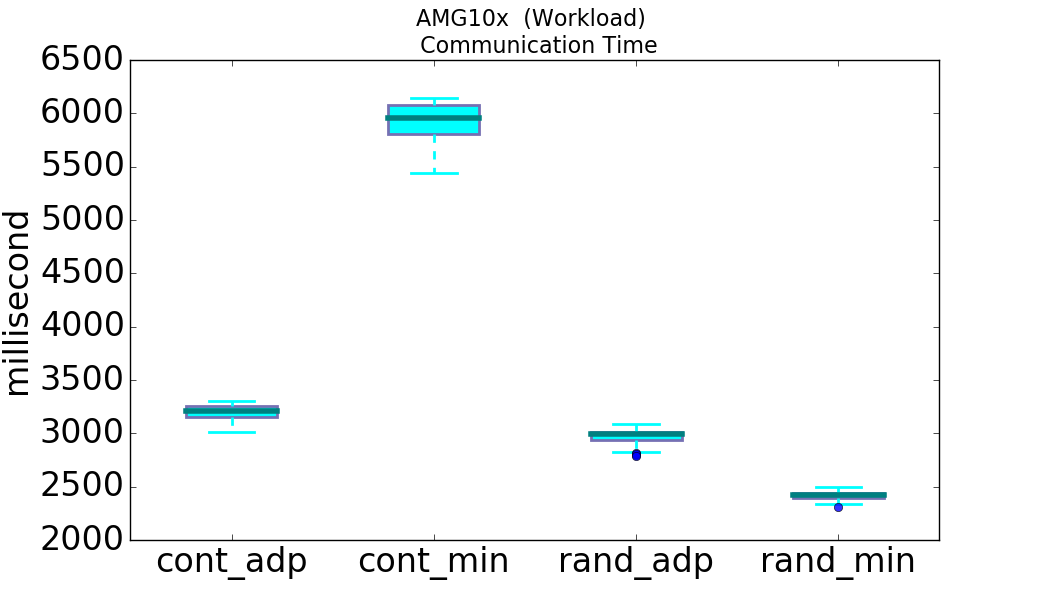
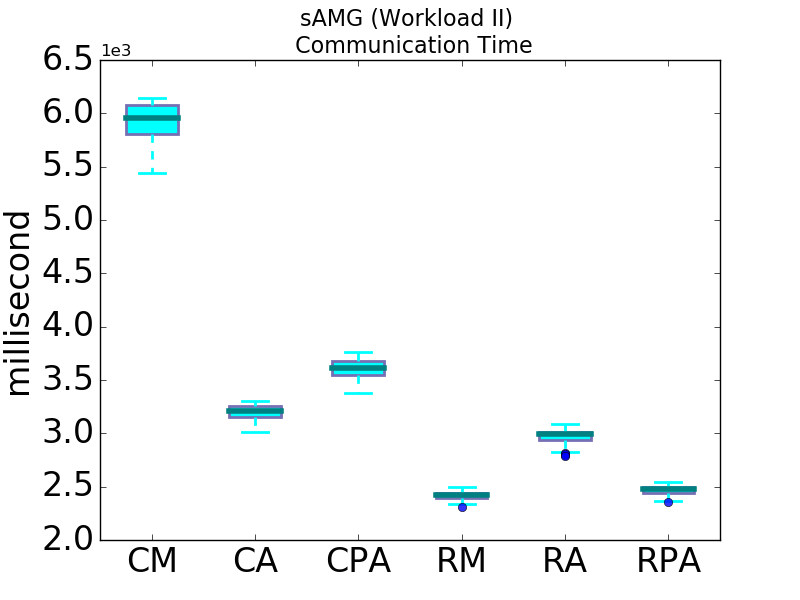
update figs in section 5, add conclusion section

diff --git a/draft.tex b/draft.tex
@@ -466,7 +466,7 @@ The implemented routing schemes in CODES dragonfly network model are based on th
 It is difficult to do experiment with concurrently running jobs on HPC system. One reason is that job placement and routing strategy are part of system configuration, it is impossible for user to make changes at will. Another reason is that it is unrealistic to reserve the system exclusively to run the same batch of jobs with desired placement and routing configurations and compare the results. Therefore, we resort to simulation in our work.
 
 \subsection{Simulation Tool}
-A simulation toolkit named CODES, Co-Design of Multilayer Exascale Storage Architectures, enables the exploration of simulating different HPC networks with high fidelity and great scalability\cite{codes}.  CODES support dragonfly network with high fidelity flit-level simulation\cite{codes-dragonfly}. It has this network workload component that is capable of taking real MPI application traces generated by SST DUMPI\cite{sst} for trace-driven simulations.
+A simulation toolkit named CODES, Co-Design of Multilayer Exascale Storage Architectures, enables the exploration of simulating different HPC networks with high fidelity and great scalability\cite{codes}.  CODES support dragonfly network with high fidelity packet-level simulation\cite{codes-dragonfly}. It has this network workload component that is capable of taking real MPI application traces generated by SST DUMPI\cite{sst} for trace-driven simulations.
 
 \subsection{Application Traces}
 \label{sec: application traces}
@@ -541,7 +541,17 @@ CrystalRouter  &   100  &  35MB    &     \\
 \end{center}
 \end{table}
 
-In our experiments, the workload running on the dragonfly network under 6 different job placement and routine scheme configurations as listed in Table \ref{tab: placement routing config}. We focus on the analysis of network status while the workload is running, as well as the performance of each individual application. We collected the following result data from the experiments:
+Figure \ref{fig:3app-data-amount} shows the data transfer amount of each MPI rank of three application. Based on this figure, we could say that CrystalRouter is the most communication-intensive and AMG is the lest communication-intensive. 
+
+\begin{figure}[h!]
+  \centering
+  \includegraphics[width = 0.48\textwidth ]{data_amount}
+  \caption{Applications Data Transfer Amount. AMG has the least amount of data transfer, compared with CR and MG.}
+  \label{fig:3app-data-amount}
+\end{figure}
+
+
+In our experiments, the workload running on the dragonfly network under 6 different job placement and routine scheme configurations as listed in Table \ref{tab: placement routing configs}. We focus on the analysis of network status while the workload is running, as well as the performance of each individual application. We collected the following result data from the experiments:
 \begin{itemize}
     \item router terminal link traffic and busy time.
     \item router local channel traffic and busy time.
@@ -550,7 +560,12 @@ In our experiments, the workload running on the dragonfly network under 6 differ
 \end{itemize}
 
 
-\TODO{need a figure show workload communication time!!!}
+\begin{figure}[h!]
+  \centering
+  \includegraphics[width = 0.48\textwidth ]{wkld/wkld-commtime}
+  \caption{Time spent on communication by Workload I when 6 different placement and routing scheme configurations are used. Random is better than contiguous in terms of improving communication efficiency.Communication time can be further reduced when (progressive) adaptive routing is used under both placement schemes. }
+  \label{fig:wkld-commtime}
+\end{figure}
 
 Figure \ref{fig:wkld-network-traffic} shows the amount of traffic go through terminal links, local channels and global channels when the workload running on dragonfly network with 6 different placement and routing configurations, and Figure \ref{fig:wkld-network-stime} shows the corresponding busy time. 
 
@@ -559,7 +574,7 @@ When the workload is running with contiguous placement and minimal routing, all 
 
 When contiguous placement is coupled with adaptive routing or progressive adaptive routing, the local congestion on global channel will be greatly alleviated, as shown in Figure \ref{fig:global-channel-traffic} the red and green dash line. Since both adaptive and progressive adaptive routing are congestion aware, and be able to utilize the idle routers on the other part of the network. The busy time of global channel are also reduce by using contiguous placement coupled with either adaptive or progressive adaptive routing, as shown in Figure \ref{fig:global-channel-stime} the red and green dash line. 
 
-Random placement can randomly allocate the MPI ranks to the physical nodes all over the network, thus prevent the traffic from congesting certain part of the network. Shown as the solid lines in Figure \ref{fig:global-channel-traffic}, the traffic go through global channels are quite uniformly distributed across all the routers in the network, thus no particular global channel will suffer high traffic burden. When the random placement coupled with minimal routing, the packets can avoid unnecessary intermediate forwarding as introduced by adaptive and progressive routing, which results in generating less traffic. That's why the blue solid line is lower than the red and green solid line, shown in figure\ref{fig:global-channel-traffic}. Since the random placement can uniformly distribute the workload traffic, there are no sudden surge of busy time of global channel over the network, shown as solid lines in Fgiure \ref{fig:global-channel-stime}.
+Random placement can randomly allocate the MPI ranks to the physical nodes all over the network, thus prevent the traffic from being congested certain part of the network. Shown as the solid lines in Figure \ref{fig:global-channel-traffic}, the traffic go through global channels are quite uniformly distributed across all the routers in the network, thus no particular global channel will suffer high traffic burden. When the random placement coupled with minimal routing, the packets can avoid unnecessary intermediate forwarding as introduced by adaptive and progressive routing, which results in generating less traffic. That's why the blue solid line is lower than the red and green solid line, shown in figure\ref{fig:global-channel-traffic}. Since the random placement can uniformly distribute the workload traffic, there are no sudden surge of busy time of global channel over the network, shown as solid lines in Fgiure \ref{fig:global-channel-stime}.
 
 %local channel traffic and busy time explanation
 
@@ -663,12 +678,15 @@ Figure \ref{fig:apps-commtime} shows the communication time of three application
 
 As shown in Figure \ref{fig:mg-commtime} \ref{fig:cr-commtime}, MG and CR suffer the longest communication time when running under the configuration of contiguous placement and minimal routing(CM). When contiguous placement coupled with adaptive or progressive adaptive routing, both MultiGrid and CrystalRouter will get great improvement in terms of communication efficiency. Random placement will further reduce the communication time of MultiGrid and CrystalRouter, and reach the best performance when coupled with (progressive) adaptive routing. Both MultiGrid and CrystalRouter shows the same trend as the workload when running under different placement and routing configurations. 
 
-However, AMG's performance is quite an exception. As shown in Figure \ref{fig:amg-commtime}, the communication time of AMG is skyrocketing when it running under random placement coupled with (progressive) adaptive routing. The contiguous placement coupled with (progressive) adaptive routing can reach the best performance for AMG. The performance of AMG running under contiguous placement coupled with minimal routing is no better than random coupled with minimal routing, but still much better than random with (progressive) adaptive routing. 
+However, AMG is quite an exception. As shown in Figure \ref{fig:amg-commtime}, the communication time of AMG is skyrocketing when it running under random placement coupled with (progressive) adaptive routing. The contiguous placement coupled with (progressive) adaptive routing can reach the best performance for AMG. The performance of AMG running under contiguous placement coupled with minimal routing is no better than random coupled with minimal routing, but still much better than random with (progressive) adaptive routing. 
 
 % Show the evidence from network level, explain why AMG is different. 
-We look into network level to identify the major culprit behind AMG's abnormal behavior with random placement and adaptive routing. By identifying the terminal nodes and routers that each application's traffic go through, we can see that the traffic amount go through the routers that belongs to AMG is skyrocketing when it running with random placement and adaptive routing, shown in Figure \ref{fig:amg-lc-traffic} and Figure \ref{fig:amg-gc-traffic}. Adaptive routing will redirect the traffic of other applications to go through the routers belongs to AMG, and increase the burden of those routers, thus slow down the communication of AMG. \textbf{More explanation about contiguous placement and minimal routing}
+We look into network level to identify the major culprit behind AMG's abnormal behavior with random placement and adaptive routing. By identifying the terminal nodes and routers that each application's traffic go through, we can see that the traffic amount go through the routers that belongs to AMG is skyrocketing when it running with random placement and adaptive routing, shown in Figure \ref{fig:amg-lc-traffic} and Figure \ref{fig:amg-gc-traffic}. Adaptive routing will redirect the traffic of other applications to go through the routers belongs to AMG, and increase the traffic burden on those routers, thus slow down the communication of AMG.
 
-CrystalRouter and MultiGrid can get obvious benefit from random placement and adaptive routing, as we can see from Figure \ref{fig:cr-gc-traffic} \ref{fig:cr-lc-traffic} and Figure \ref{fig:mg-gc-traffic} \ref{fig:mg-lc-traffic}, random placement and adaptive routing can redirect their traffic to other region of network, to avoid local congestion as appeared with contiguous and minimal routing. \textbf{More explanation about contiguous placement and minimal routing}
+No router will be shared between applications under contiguous placement. A set of successive groups will be allocated to each application under contiguous placement scheme. When contiguous placement coupled with minimal routing, application will be free of interference from its running neighbors. However, application communication traffic will be confined within their allocated routers, thus local congestion is very likely to happen depends on application communication intensity. As the lest communication intensive application, AMG can benefit from contiguous placement. Under contiguous placement, the traffic go through the local and global channels of the routers that belongs to AMG is significantly lower than random placement, shown in Figure \ref{fig:amg-lc-traffic}, \ref{fig:amg-gc-traffic}. MultiGrid and CrystalRouter are more communication intensive compared with AMG. They will suffer great amount local traffic in both local and global channels when contiguous placement is used, shown as the dash line in Figure \ref{fig:mg-lc-traffic}, \ref{fig:mg-gc-traffic} and Figure \ref{fig:cr-lc-traffic}, \ref{fig:cr-gc-traffic}. The random placement scheme can uniformly distribute their traffic all over the network by allocating randomly selected nodes to each MPI rank. 
+
+
+
 
 \begin{figure*}[t!]
     \centering
@@ -722,31 +740,38 @@ CrystalRouter and MultiGrid can get obvious benefit from random placement and ad
 \end{figure*}
 
 
-Why AMG is the only victim in the workload? The reason for CrystalRouter and MultiGrid get improvement in the sacrifice of AMG's performance is that AMG is the lest communication-intensive application in the workload. As shown in Figure \ref{fig:3app-data-amount}, AMG has the least amount of data transfer between its ranks. 
+The reason for AMG being the only victim from random placement and adaptive routing is due to  its relatively small amount of data transfer, that make it the least communication-intensive application in the workload.
 
-\begin{figure*}[t!]
-  \centering
-  \includegraphics[height=2.2in]{data_amount}
-  \caption{Applications Data Transfer Amount. AMG has the least amount of data transfer, compared with CR and MG.}
-  \label{fig:3app-data-amount}
-\end{figure*}
 
-Apparently, random placement and adaptive routing is quite efficient for orchestrate the traffic load in the network. Random placement and adaptive routing can uniformly distribute the workload traffic all over the network, make the load-balanced and avoid hot-spots. However, application like AMG will be impaired in this orchestration. The routers through which the less communication-intensive application traffic used to route, now have more traffic go through them. These extra traffic are from other communication-intensive applications. Beneath the facade of harmony, less communication-intensive application are ``bullied" by their communication-intensive peers in the workload. 
+From the detailed analysis of three applications performance above, we know that random placement and adaptive routing is quite efficient for orchestrate the traffic load in the network. Random placement and adaptive routing can uniformly distribute the workload traffic all over the network, make the load-balanced and avoid hot-spots. However, application like AMG will be impaired in this orchestration. The routers through which the less communication-intensive application traffic used to route, now have more traffic go through them. These extra traffic are from other communication-intensive applications. Beneath the facade of harmony, less communication-intensive application are ``bullied" by their communication-intensive peers in the workload. 
 
-We have tried three different congestion sensing schemes that used in adaptive routing\cite{dally-dragonfly}, although there are some variations of the experiments, none of the congestion sensing scheme can prevent the ``bully" from happening. 
+We have tried three different congestion sensing schemes that used in adaptive routing\cite{won-prog-adaptive}, although there are some variations of the experiments, none of the congestion sensing scheme can prevent the ``bully" from happening.
 
 \section{Parallel Workload \Rmnum{2 } Study}
 
-To validate our assumption, we generate synthetic application, sAMG, which are same the with AMG's original traces in every aspect expect that the data transfer amount 100x greater than AMG. We run the new workload that consists of sAMG, MG and CR on the same dragonfly network with the same placement and routing configurations. As shown in Figure \ref{fig:syn-3app-data-amount}, sAMG become the most communication-intensive application in the new workload. 
+In order to prove that AMG being bullied only because it is less communication-intensive than its running peers, we generate a synthetic application, sAMG, which are same the with AMG's original traces in every aspect expect that the data transfer amount 100x greater than AMG. We run the new workload that consists of sAMG, MultiGrid and CrystalRouter on the same dragonfly network with 6 different placement and routing configurations. As shown in Figure \ref{fig:syn-3app-data-amount}, sAMG become the most communication-intensive application in the new workload. 
 
-\begin{figure*}[t!]
+\begin{figure}[h!]
   \centering
-  \includegraphics[height=2.2in]{syn-wkld/data_amount}
+  \includegraphics[width = 0.48\textwidth ]{syn-wkld/data_amount}
   \caption{Applications Data Transfer Amount. sAMG has the most amount of data transfer, compared with CR and MG.}
   \label{fig:syn-3app-data-amount}
-\end{figure*}
+\end{figure}
 
-The communication time of each application shown in Figure \ref{fig:syn-apps-commtime}. The ``bully" become the ``bullyee". The less communication-intensive application, CrystalRouter and MultiGrid, suffer prolonged communication time when running concurrently with sAMG with random placement and adaptive routing configuration. The routers that belongs to MultiGrid  and now CrystalRouter has extra traffic go through them, shown in Figure  \ref{fig:syn-mg-lc-traffic} \ref{fig:syn-mg-gc-traffic} and Figure \ref{fig:syn-cr-lc-traffic} \ref{fig:syn-cr-gc-traffic}. The extra traffic come from sAMG, that been redirected by adaptive routing. \textbf{More explanation about contiguous placement and minimal routing}.
+\begin{figure}[h!]
+  \centering
+  \includegraphics[width = 0.48\textwidth ]{syn-wkld/wkld-commtime}
+  \caption{ Time spent on communication by Workload II when 6 different placement and routing scheme configurations are used. Random is better than contiguous in terms of improving communication efficiency.Communication time can be further reduced when (progressive) adaptive routing is used under both placement schemes. }
+  \label{fig:syn-wkld-commtime}
+\end{figure}
+
+\TODO{Explain} Figure \ref{fig:syn-wkld-commtime}. 
+
+
+The communication time of each application shown in Figure \ref{fig:syn-apps-commtime}. The ``bully" become the ``bullyee". The less communication-intensive applications in the workload this time are  MultiGrid and CrystalRouter.  When random placement coupled with (progressive) adaptive routing is used, MultiGrid and CrystalRouter suffer prolonged communication time, shown in Figure \ref{fig:syn-mg-commtime}, \ref{fig:syn-cr-commtime}. sAMG on the other hand benefit from random placement, shown in Figure \ref{fig:syn-samg-commtime }. 
+
+Contiguous placement coupled with minimal routing prevent applications from sharing network resource, and confine application communication traffic to their allocated routers. This can guarantee the performance of less communication intensive applications like MultiGrid and CrystalRouter, and make the communication intensive application like sAMG severely deteriorate. 
+
 
 \begin{figure*}[t!]
     \centering
@@ -754,7 +779,7 @@ The communication time of each application shown in Figure \ref{fig:syn-apps-com
         \centering
         \includegraphics[height=1.5 in]{syn-wkld/amg10/commtime}
         \caption{sAMG Communication Time}
-        \label{fig:samg-commtime}
+        \label{fig:syn-samg-commtime}
     \end{subfigure}%
     \hspace{1em}%
     \begin{subfigure}[t]{0.32\textwidth}
@@ -773,14 +798,22 @@ The communication time of each application shown in Figure \ref{fig:syn-apps-com
    \label{fig:syn-apps-commtime}
 \end{figure*}
 
+% explain the network status of sAMG, MG and CR
+We look into the network level to scrutinize the traffic went through the routers belongs to each application. 
+Figure \ref{fig:syn-samg-lc-traffic}, \ref{fig:syn-samg-gc-traffic} shows the traffic go through the local and global channels of the routers that belongs to sAMG when different placement and routing configuration is used. The traffic is skyrocketing in both local and global channels when contiguous placement coupled with minimal routing. The contiguous placement make all the MPI ranks of sAMG reside on a set of nodes in the groups that adjacent to each other and minimal routing confines the traffic in those groups, results in severe local congestion. When adaptive routing is used, the local congestion will be alleviated in both local and global channels, as some traffic will be redirected to other part of the network. Random placement scheme can further reduce the traffic burden on local and global channels by assigning each MPI rank of sAMG with randomly select nodes, thus uniformly distribute sAMG traffic over the network. 
+
+MultiGrid become a victim of sAMG's bully when running under random placement. The traffic go through the local and global channels of the routers that belongs to MultiGrid are shown in Figure \ref{fig:syn-mg-lc-traffic}, \ref{fig:syn-mg-gc-traffic}. Although contiguous placement allocates all the MPI ranks in set of nodes in adjacent groups, causing possible local congestion, it will save MultiGrid's routers being shared by the traffic from its communication intensive peer, sAMG. As random placement is used, the traffic go through both local and global channels are greatly increased. 
+
+CrystalRouter has more traffic than MultiGrid. The random placement won't redirect much traffic from other applications to the routers belongs to CrystalRouter, compared with contiguous placement, as shown in Figure \ref{fig:syn-cr-lc-traffic}, \ref{fig:syn-cr-gc-traffic}.
+
 
 \begin{figure*}[t!]
     \centering
     \begin{subfigure}[t]{0.32\textwidth}
         \centering
         \includegraphics[height=1.5 in]{syn-wkld/amg10/lc-traffic}
-        \caption{AMG Local Channel Traffic}
-        \label{fig:samg-lc-traffic}
+        \caption{sAMG Local Channel Traffic}
+        \label{fig:syn-samg-lc-traffic}
     \end{subfigure}%
     \hspace{1em}%
     \begin{subfigure}[t]{0.32\textwidth}
@@ -805,8 +838,8 @@ The communication time of each application shown in Figure \ref{fig:syn-apps-com
     \begin{subfigure}[t]{0.32\textwidth}
         \centering
         \includegraphics[height=1.5 in]{syn-wkld/amg10/gc-traffic}
-        \caption{AMG Global Channel Traffic}
-        \label{fig:samg-gc-traffic}
+        \caption{sAMG Global Channel Traffic}
+        \label{fig:syn-samg-gc-traffic}
     \end{subfigure}%
     \hspace{1em}%
     \begin{subfigure}[t]{0.32\textwidth}
@@ -825,8 +858,6 @@ The communication time of each application shown in Figure \ref{fig:syn-apps-com
    \label{fig:syn-3app-gc-traffic}
 \end{figure*}
 
-
-\textbf{We can add another set of synthetic workload, in which three applications have similar data transfer amount, if necessary. }
 
 Based on the results we got from both real application traces and synthetic workload, we can make the following observations:
 
@@ -954,8 +985,13 @@ Our work different from the previous works in the following ways. First, instead
 
 
 \section{Conclusion}
-The conclusion goes here.
+\label{sec:conclusion}
 
+In this paper, we have conducted extensive study about application's behavior when it running on dragonfly network with different job placement and routing configurations. We resorted to CODES, a HPC network simulation tool with high fidelity, and used three parallel applications traces collected from production system to analysis the applications' behavior on network level. We found that when applications are running concurrently, although random placement can uniformly distribute the workload traffic over the network, alleviate local congestion, the performance of certain application would be impaired. We identify this phenomenon as ``bully" between concurrently running jobs, and the victim always being the less communication-intensive application. On the other hand, the contiguous placement tend to cause local congestion, however when coupled with adaptive routing, the configuration can guarantee the performance of ``bullee" application by limiting the network sharing between concurrently running application. 
+
+Due the presence of this ``bully", we suggest that when the batch scheduler make job placement for workload on system with dragonfly network, random placement shouldn't be the rule of thumb. Instead, the placement should made with consideration of jobs communication intensity. The less intensive application should get contiguous allocation coupled with adaptive routing, the intensive ones should get random allocation coupled with minimal routing. 
+
+We believe the findings presented in this paper can illuminate a path to more efficient workload manager for future systems with dragonfly network.
 
 
 
